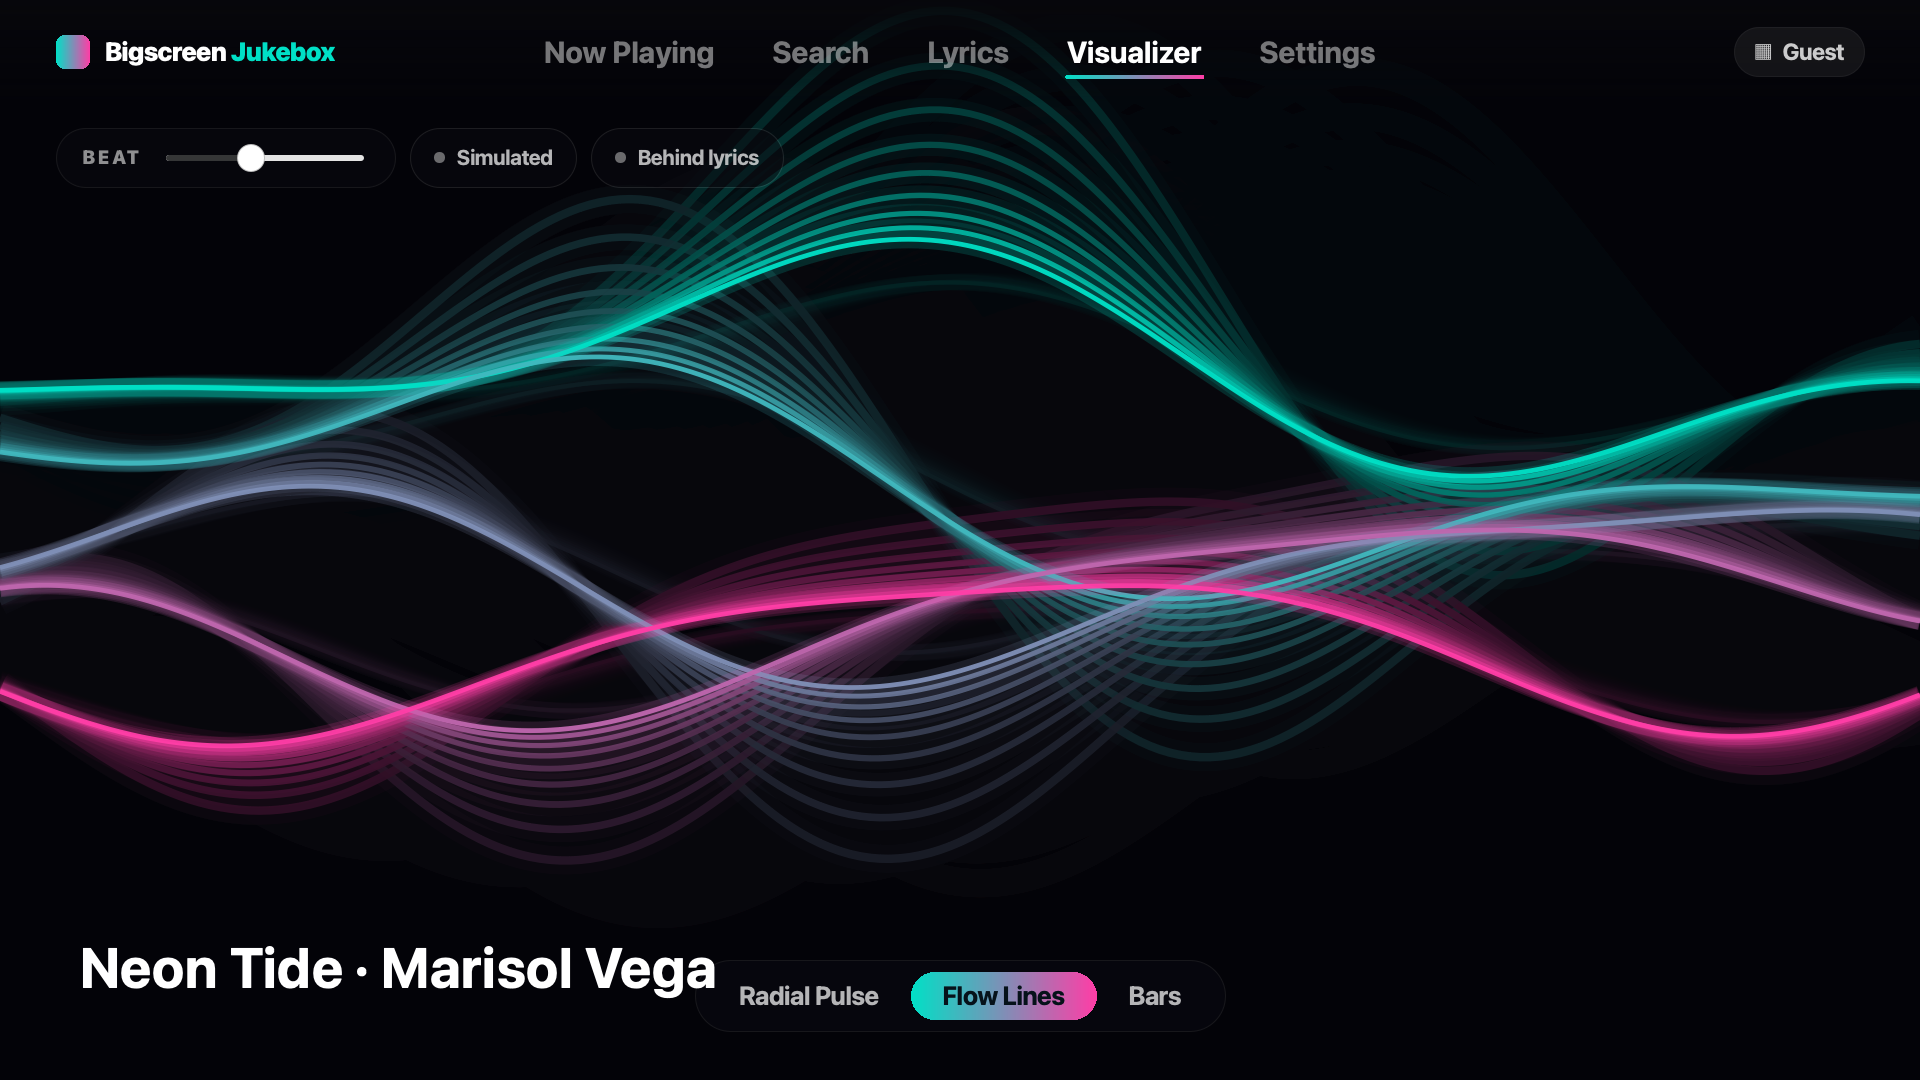
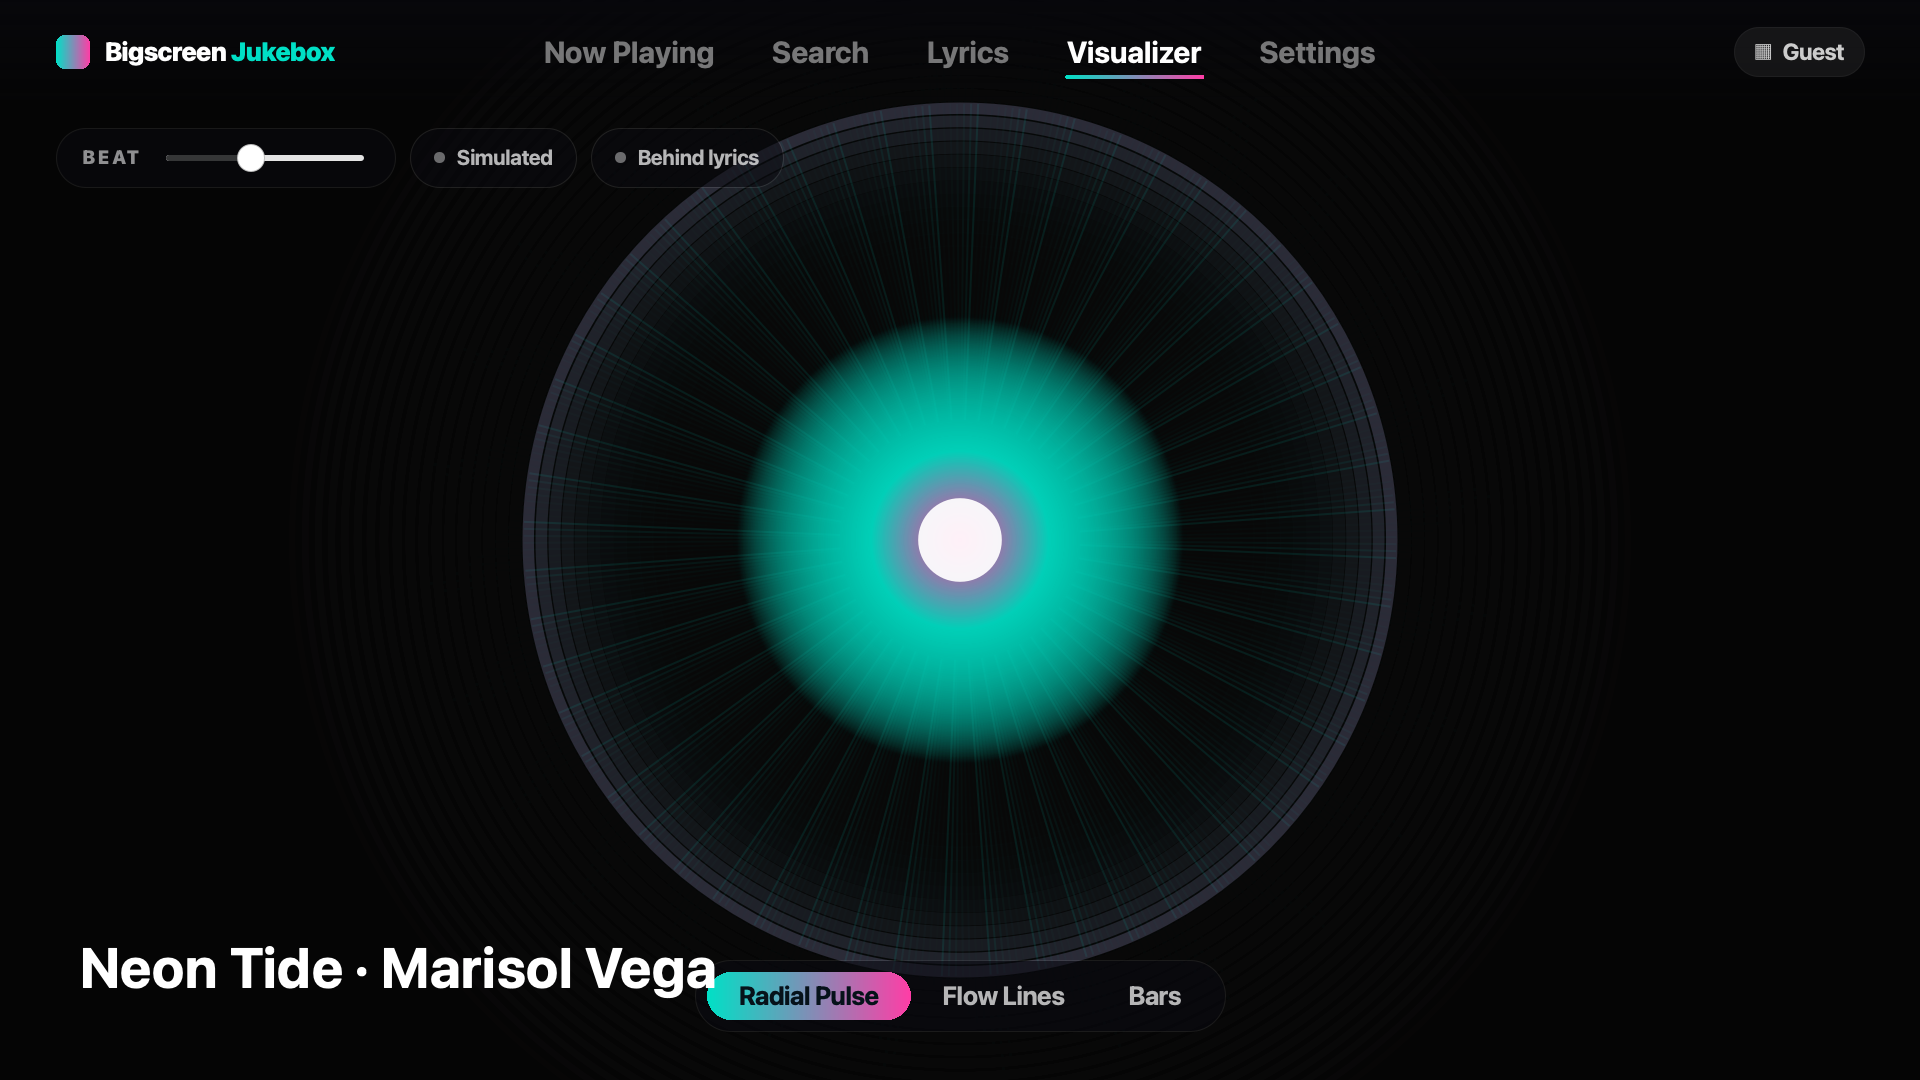
feat: auto-shrink long lyric lines; headless screenshot script; full README
- Lyrics: the active line uses HorizontalFit so a long line scales down to one row
  instead of wrapping into its neighbours (wraps only as a last resort).
- scripts/screenshots.py: render the UI headless with mock data (no display/server)
  to (re)generate docs/screenshots and sanity-check the QML (--verify).
- README: screenshots, features, project structure + architecture, build/test/run
  instructions, and a guide for developing features with an AI agent.

Changed region(s): [[0.0, 0.0306, 1.0, 0.9472]]

diff --git a/qml/Lyrics.qml b/qml/Lyrics.qml
@@ -78,6 +78,12 @@ Item {
                     horizontalAlignment: Text.AlignHCenter
                     verticalAlignment: Text.AlignVCenter
                     wrapMode: Text.WordWrap
+                    // Shrink a long line to fit one row instead of wrapping into
+                    // its neighbours; only wraps if it can't fit even at the minimum.
+                    fontSizeMode: Text.HorizontalFit
+                    minimumPixelSize: 40
+                    maximumLineCount: 2
+                    elide: Text.ElideRight
                     text: modelData.text
                     property int d: index - root.active
                     property bool isActive: d === 0 && !root.intro

diff --git a/scripts/screenshots.py b/scripts/screenshots.py
@@ -1,0 +1,114 @@
+#!/usr/bin/env python3
+"""Render the UI headlessly with mock data — verify QML and (re)generate screenshots.
+
+No display, no Music Assistant server: the real context objects are constructed and
+seeded with fake data, then qml/main.qml is loaded offscreen. Use it to:
+  * sanity-check the QML (it prints any load warnings and exits non-zero on error)
+  * regenerate docs/screenshots/*.png
+  * let an AI agent visually self-check a UI change (open the saved PNGs)
+
+Usage:
+    python scripts/screenshots.py            # write PNGs to docs/screenshots/
+    python scripts/screenshots.py /tmp/out   # ... to a custom dir
+    python scripts/screenshots.py --verify    # just load + report warnings, no PNGs
+"""
+from __future__ import annotations
+import json, os, sys
+from pathlib import Path
+
+os.environ.setdefault("QT_QPA_PLATFORM", "offscreen")
+ROOT = Path(__file__).resolve().parent.parent
+sys.path.insert(0, str(ROOT / "src"))
+
+from PySide6.QtGui import QGuiApplication, QWindow
+from PySide6.QtQml import QQmlApplicationEngine
+from PySide6.QtQuickControls2 import QQuickStyle
+from PySide6.QtCore import QUrl, QTimer, QEventLoop
+from PySide6.QtQuick import QQuickItem
+
+from bigscreen_jukebox.config import Settings
+from bigscreen_jukebox.ma_client import MaClient
+from bigscreen_jukebox.audio_analysis import AudioAnalyzer
+from bigscreen_jukebox.__main__ import GuestController, SettingsController
+
+TABS = ["now-playing", "search", "lyrics", "visualizer", "settings"]
+
+
+def seed(ma: MaClient) -> None:
+    ma._players = [{"id": "living", "name": "Living Room TV"}, {"id": "kitchen", "name": "Kitchen"}]
+    ma._active = "living"
+    ma._title, ma._artist, ma._album = "Neon Tide", "Marisol Vega", "Afterglow"
+    ma._dur, ma._pos, ma._volume, ma._playing = 224000, 84000, 70, True
+    ma._queue = [
+        {"title": "Paper Skylines", "artist": "The Lantern Hours", "duration_ms": 198000},
+        {"title": "Slow Dissolve", "artist": "Kaiso", "duration_ms": 251000},
+        {"title": "Gold Static", "artist": "Faye Okonkwo", "duration_ms": 176000},
+    ]
+    ma._queue_count = 11
+    ma._search_results = [
+        {"title": "Neon Tide", "artist": "Marisol Vega", "album": "Afterglow", "uri": "u1", "image": ""},
+        {"title": "Paper Skylines", "artist": "The Lantern Hours", "album": "Cartography", "uri": "u2", "image": ""},
+    ]
+    ma._lyrics_json = json.dumps({"synced": True, "lines": [
+        {"time_ms": 6000, "text": "Lights spill soft across the floor"},
+        {"time_ms": 15000, "text": "Another midnight at the door"},
+        {"time_ms": 24000, "text": "We were running out of time"},
+        {"time_ms": 33000, "text": "Now the silence feels like mine"},
+    ]})
+
+
+def main() -> int:
+    args = [a for a in sys.argv[1:]]
+    verify_only = "--verify" in args
+    out = Path([a for a in args if not a.startswith("--")][0]) if any(
+        not a.startswith("--") for a in args) else ROOT / "docs" / "screenshots"
+
+    QQuickStyle.setStyle("Basic")
+    app = QGuiApplication(sys.argv)
+    settings = Settings()
+    ma = MaClient(settings); seed(ma)
+    analyzer = AudioAnalyzer()              # energy 0 -> animated simulation
+    guest = GuestController(ma, settings)
+    sctrl = SettingsController(settings)
+
+    engine = QQmlApplicationEngine()
+    engine.addImportPath(str(ROOT / "qml"))
+    warnings: list[str] = []
+    engine.warnings.connect(lambda ws: [warnings.append(w.toString()) for w in ws])
+    for name, obj in (("maClient", ma), ("audioAnalyzer", analyzer),
+                      ("guestController", guest), ("settingsController", sctrl)):
+        engine.rootContext().setContextProperty(name, obj)
+    engine.load(QUrl.fromLocalFile(str(ROOT / "qml" / "main.qml")))
+
+    def settle(ms: int) -> None:
+        loop = QEventLoop(); QTimer.singleShot(ms, loop.quit); loop.exec()
+
+    settle(400)
+    roots = engine.rootObjects()
+    real = [w for w in warnings if "does not support customization" not in w]
+    print("ROOT LOADED" if roots else "NO ROOT OBJECTS — main.qml failed to load")
+    print(f"{len(real)} load warning(s):")
+    for w in real:
+        print("  ", w)
+    if not roots or real:
+        return 1
+    if verify_only:
+        return 0
+
+    win = roots[0]
+    win.setVisibility(QWindow.Visibility.Windowed)
+    win.setWidth(1920); win.setHeight(1080)
+    stack = next(it for it in win.findChildren(QQuickItem)
+                 if it.metaObject().className().startswith("QQuickStackLayout"))
+    out.mkdir(parents=True, exist_ok=True)
+    settle(400)
+    for i, name in enumerate(TABS):
+        stack.setProperty("currentIndex", i)
+        settle(900)
+        win.grabWindow().save(str(out / f"{name}.png"))
+        print("saved", out / f"{name}.png")
+    return 0
+
+
+if __name__ == "__main__":
+    raise SystemExit(main())

diff --git a/README.md b/README.md
@@ -2,33 +2,146 @@
 
 A fullscreen, TV- and remote-friendly client for a [Music Assistant](https://www.music-assistant.io/)
 server — Now Playing, search, karaoke lyrics, an audio visualizer, and a guest QR
-mode, all controllable with a D-pad remote. Built with PySide6/QML.
+mode, all driveable with a D-pad remote. Built with PySide6 / QML.
 
 > Unofficial, third-party client. Not affiliated with the Music Assistant project.
 
+![Now Playing](docs/screenshots/now-playing.png)
+
+| Lyrics | Visualizer |
+|---|---|
+| ![Lyrics](docs/screenshots/lyrics.png) | ![Visualizer](docs/screenshots/visualizer.png) |
+
+## Features
+
+- **Now Playing** — album art (pumps with the bass), transport, volume, an Up Next queue
+- **Search** — search your Music Assistant providers and play instantly
+- **Lyrics** — smooth-scrolling karaoke lyrics, with an LRCLIB fallback when MA has none
+- **Visualizer** — radial / flow / bars, reacting to live audio (PipeWire), optionally behind the lyrics
+- **Guest mode** — a corner QR code; prefers the MA **party** plugin (works off-network, rate-limited), falls back to a built-in LAN guest server
+- **D-pad navigation** + a settings screen; authored at 1920×1080 and scaled to any display (4K-ready)
+
 ## Download
 
-Grab the latest build from the [Releases page](https://github.com/shreyasajj/music-assistant-desktop-tv/releases):
+Grab the latest from the [Releases page](https://github.com/shreyasajj/music-assistant-desktop-tv/releases)
+(full releases from `main`, pre-releases from `dev`):
 
-- **AppImage** — `chmod +x Bigscreen_Jukebox-x86_64.AppImage` and run it (works on KDE Plasma and most Linux desktops).
+- **AppImage** — `chmod +x Bigscreen_Jukebox-x86_64.AppImage` and run it (KDE Plasma & most Linux desktops).
 - **Tarball** — extract and run `bigscreen-jukebox/bigscreen-jukebox`.
 
-Builds are produced automatically on every push (full releases from `main`,
-pre-releases from `dev`). For the live visualizer / album-art bass pump, install
-`libportaudio2` (optional).
+For the live visualizer / art-pump, install `libportaudio2` (optional). **First run:**
+open **Settings**, enter your Music Assistant host + long-lived token, and pick a default player.
 
-First run: open **Settings**, enter your Music Assistant host + long-lived token,
-and pick a default player.
+## Project structure
 
-## Flatpak / Flathub
+```
+src/bigscreen_jukebox/      Python backend
+  __main__.py     entry point: qasync loop, context objects, QML engine, Settings/Guest controllers
+  config.py       Settings dataclass + JSON load/save (~/.config/bigscreen-jukebox/settings.json)
+  ma_client.py    MaClient — bridges the Music Assistant websocket client to QML (properties/signals)
+  audio_analysis.py  AudioAnalyzer — FFT energy/beat/64-bars; PipeWire monitor capture
+  lyrics.py       LRC parsing            lrclib.py   LRCLIB lyric fetch (fallback)
+  guest_server.py embedded LAN guest web server (fallback for the party plugin)
+  qr.py           QR code -> PNG data URI
 
-Packaging files and submission instructions are in [`flatpak/`](flatpak/README.md).
+qml/                        QML/Quick UI (loaded by the engine)
+  main.qml        app shell: 1920x1080 stage + scaling, D-pad nav, screen stack
+  TopBar / NowPlaying / Search / Lyrics / Visualizer / SettingsView / UpNextQueue / PlayerMenu / GuestOverlay
+  VizCanvas.qml   visualizer drawing engine (radial/flow/bars), reused on the viz tab and behind lyrics
+  Theme.qml       color/size tokens (singleton)     VizState.qml  shared viz mode/beat (singleton)
+  qmldir          registers the singletons
 
-## Dev setup
+tests/                      pytest suite (Music Assistant fully mocked — no live server needed)
+scripts/screenshots.py      headless render of the UI -> PNGs / QML sanity check (no display, no server)
+flatpak/                    Flatpak manifest + AppStream metadata for Flathub (see flatpak/README.md)
+bigscreen-jukebox/          the canonical web design prototype (binding visual spec)
+.github/workflows/          CI: test, build (PyInstaller + AppImage), publish a release on push
+```
 
-    pip install -e ".[dev]"
-    pytest
-    python -m bigscreen_jukebox        # run from the repo
+### How it fits together
+
+`__main__.py` starts a Qt app on a [qasync](https://github.com/CabbageDevelopment/qasync)
+event loop, constructs the backend objects, and exposes them to QML as **context properties**:
+`maClient`, `audioAnalyzer`, `guestController`, `settingsController` (plus the `Theme` and
+`VizState` QML singletons). `MaClient` connects to the Music Assistant server over its
+websocket API, maps player/queue state into Qt properties, and emits change signals; the QML
+binds to those. UI lives entirely in `qml/`; Python never builds widgets.
+
+## Development
+
+```bash
+pip install -e ".[dev]"
+python -m bigscreen_jukebox          # run against a Music Assistant server
+```
+
+### Testing
+
+```bash
+pytest -q                            # the suite mocks MA entirely (no LAN/server access)
+python scripts/screenshots.py --verify   # load the QML headless and report any warnings
+```
+
+The test suite never touches a real server — every Music Assistant interaction is mocked, so
+it runs in CI and locally without your LAN. UI is verified separately by rendering it headless
+(see below).
+
+### Verifying the UI without a display
+
+`scripts/screenshots.py` loads the real QML with seeded mock data on Qt's `offscreen`
+platform and saves a PNG per tab — no display and no server required:
+
+```bash
+python scripts/screenshots.py            # regenerate docs/screenshots/*.png
+python scripts/screenshots.py /tmp/out   # render to a custom dir
+python scripts/screenshots.py --verify   # just check the QML loads cleanly (exit 1 on warnings)
+```
+
+This is how UI changes are checked throughout the project (and is the recommended way for an
+AI agent to self-verify a visual change — render, then open the PNGs).
+
+### Building
+
+- **Locally (PyInstaller):** the [CI workflow](.github/workflows/build-release.yml) shows the
+  exact command (`pyinstaller --collect-all PySide6 --add-data "qml:qml" …`).
+- **Releases:** every push builds an AppImage + tarball and publishes a GitHub release
+  (`main`/`master` → full release, `dev` → pre-release).
+- **Flatpak / Flathub:** see [`flatpak/README.md`](flatpak/README.md).
+
+## Developing features with an AI agent
+
+This repo is set up to be built out with an AI coding agent (e.g. Claude Code). To get a good
+result, give the agent this context up front:
+
+**1. Point it at the map.** This README's *Project structure* + *How it fits together*, and the
+design prototype in [`bigscreen-jukebox/`](bigscreen-jukebox/) (the binding visual spec — match it).
+
+**2. State the conventions:**
+- UI is **QML in `qml/`**; the backend is **Python in `src/bigscreen_jukebox/`**. Don't build UI in Python.
+- The bridge is **`MaClient`** (a `QObject`): expose new data to QML as a `Property` with a
+  `notify` signal; expose actions as a `@Slot`. QML reads context properties `maClient`,
+  `audioAnalyzer`, `guestController`, `settingsController`, and singletons `Theme` / `VizState`.
+- **Tests mock Music Assistant** — add a fake session/controller (see `tests/test_ma_client.py`),
+  never hit a live server in tests.
+- Persisted options live on the `Settings` dataclass (`config.py`) + `SettingsController`
+  (`__main__.py`) + a toggle in `SettingsView.qml`.
+
+**3. Tell it how to verify** (it can't see your screen or your server):
+- `pytest -q` for logic.
+- `python scripts/screenshots.py` to render the UI headless, then look at the PNGs.
+- Music Assistant integration uses the `music_assistant_client` controllers
+  (`players`, `player_queues`, `music`) and namespaced commands. The MA **party** plugin exposes
+  `party/url`, `party/player`, `party/config`, `party/add_to_queue`, … (used for guest mode).
+
+**4. A prompt that works well:**
+
+> *Implement &lt;feature&gt; for this PySide6/QML app. Read the README "Project structure" and the
+> `bigscreen-jukebox/` prototype first. Put UI in `qml/`, data/actions on `MaClient` as
+> Property/Slot, and a persisted toggle in Settings if it's optional. Add a mocked test in
+> `tests/`. Verify with `pytest -q` and `python scripts/screenshots.py`, then show me the
+> relevant screenshot.*
+
+The [`ralph/`](ralph/) folder contains an example of fully autonomous, one-task-at-a-time AI
+development driven from a plan — a template if you want to automate a backlog.
 
 ## License
 